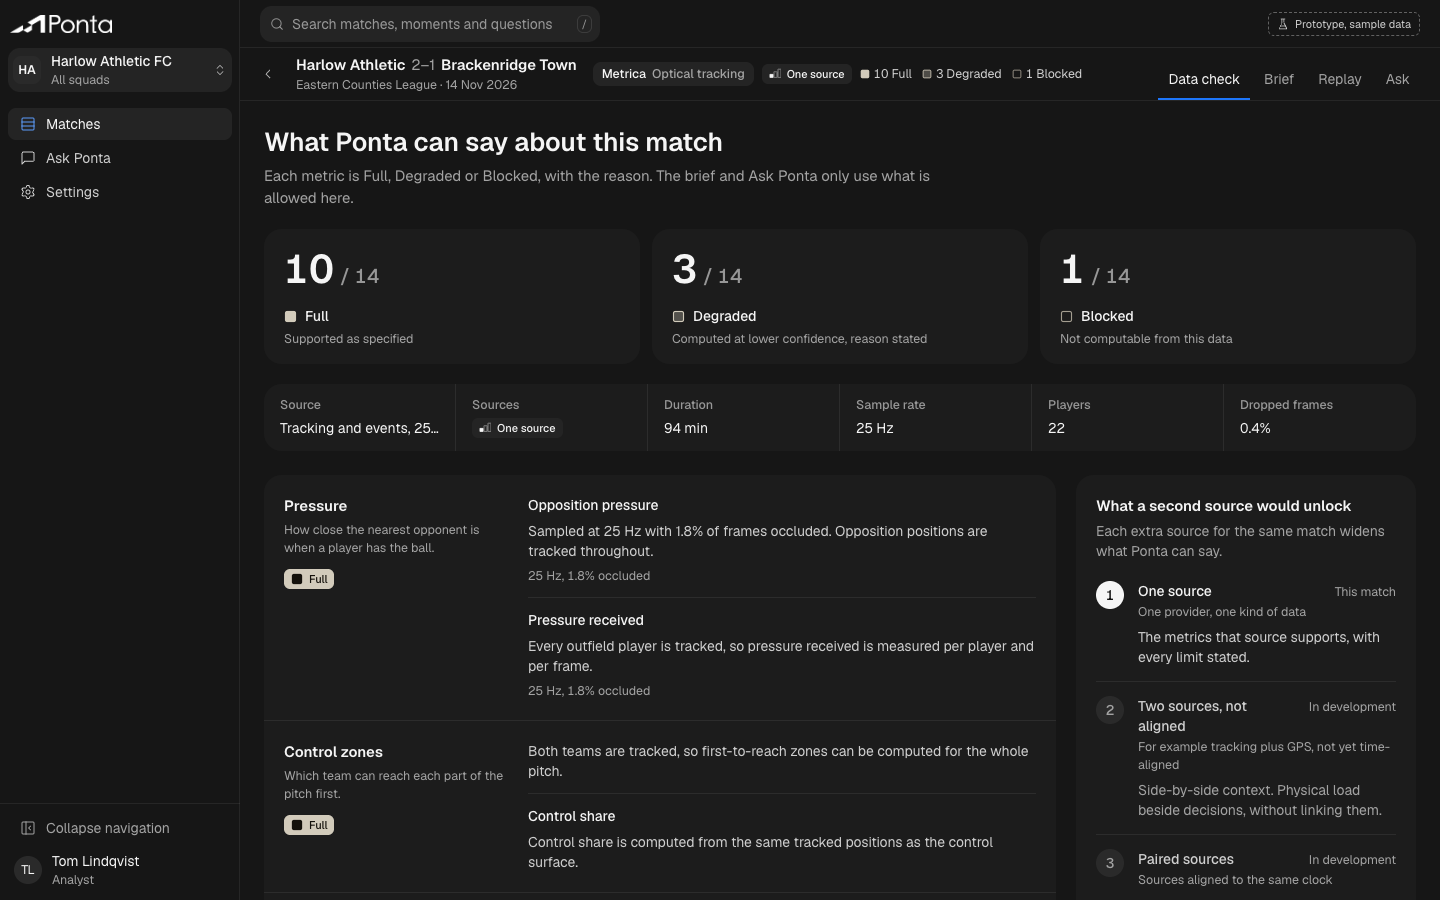
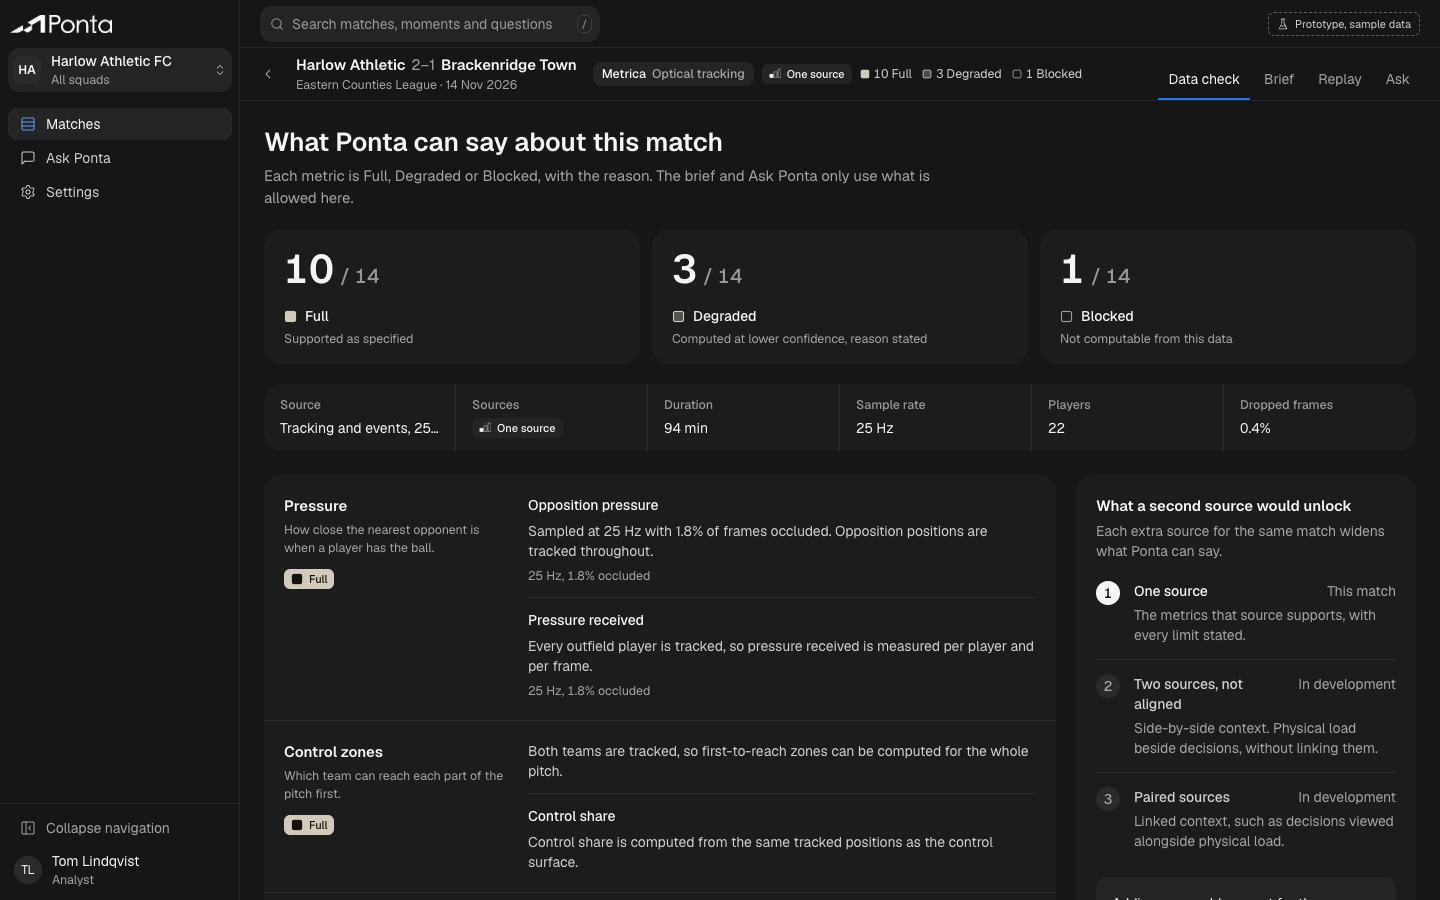
Data check panel: two type sizes only
Heading plus 14 px for everything else; hierarchy from weight and shade. The 'who' line moves
to the step title's tooltip; smaller step circles.

Changed region(s): [[0.75, 0.6533, 0.9688, 0.9956]]

diff --git a/src/components/parity/ParityGate.tsx b/src/components/parity/ParityGate.tsx
@@ -120,26 +120,25 @@ function Ladder({ match }: { match: Match }) {
             <li key={s.tier} aria-current={here ? 'step' : undefined} className="flex gap-3.5 border-t border-hair py-3.5 first:border-t-0 first:pt-1">
               <span
                 aria-hidden
-                className={cn('flex size-7 shrink-0 items-center justify-center rounded-full text-sm font-medium tabular-nums', here ? 'bg-primary-fill text-on-primary' : 'bg-s3 text-fg-3')}
+                className={cn('flex size-6 shrink-0 items-center justify-center rounded-full text-sm font-medium tabular-nums', here ? 'bg-primary-fill text-on-primary' : 'bg-s3 text-fg-3')}
               >
                 {s.tier}
               </span>
-              <div className="min-w-0 flex-1">
+              {/* Two sizes in the whole panel: the heading, and 14 px for everything else.
+                  Hierarchy comes from weight and shade only. */}
+              <div className="min-w-0 flex-1 text-sm">
                 <div className="flex items-baseline justify-between gap-3">
-                  <h4 className={cn('text-sm font-medium', here || s.live ? 'text-fg-1' : 'text-fg-2')}>{s.title}</h4>
-                  <span className="shrink-0 text-xs text-fg-3">{here ? t('gate.you_are_here') : !s.live ? t('tier.in_development') : ''}</span>
+                  <h4 className={cn('font-medium', here || s.live ? 'text-fg-1' : 'text-fg-2')} title={s.who}>{s.title}</h4>
+                  <span className="shrink-0 text-fg-3">{here ? t('gate.you_are_here') : !s.live ? t('tier.in_development') : ''}</span>
                 </div>
-                <p className="mt-0.5 text-xs text-fg-3">{s.who}</p>
-                <p className={cn('mt-1.5 text-sm', here || s.live ? 'text-fg-2' : 'text-fg-3')}>{s.unlocks}</p>
+                <p className="mt-1 text-fg-3">{s.unlocks}</p>
               </div>
             </li>
           )
         })}
       </ol>
 
-      <div className="mt-3 rounded-lg bg-s2 p-4">
-        <p className="text-sm text-fg-1">{suggestion}</p>
-      </div>
+      <p className="mt-3 rounded-lg bg-s2 p-4 text-sm text-fg-1">{suggestion}</p>
       <div className="mt-3 flex flex-col items-stretch gap-1">
         <Link to={`/matches/new?match=${match.id}`} className={buttonStyles({ variant: 'primary' })}>
           <Plus className="size-4" aria-hidden />
